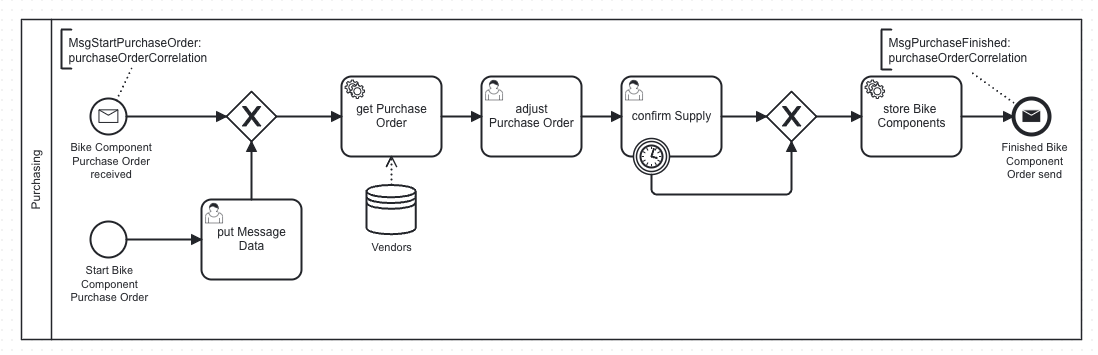
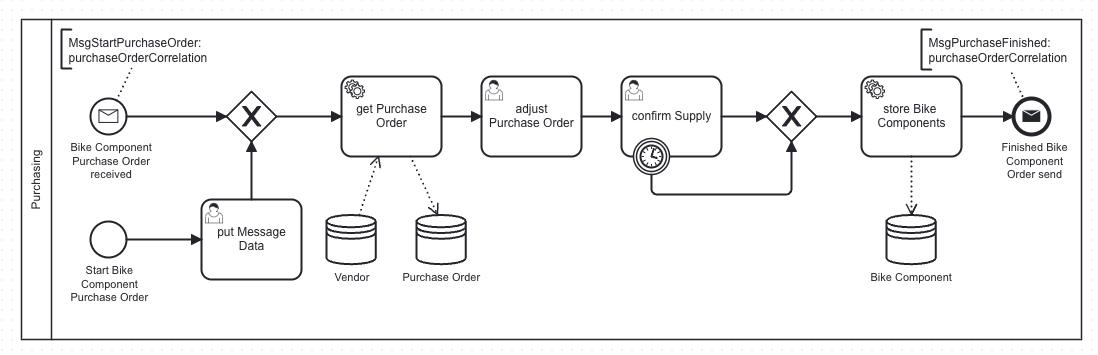
fixed Bike Instance reservation

diff --git a/bpa_lab_purchasing_process/src/index.ts b/bpa_lab_purchasing_process/src/index.ts
@@ -45,10 +45,10 @@ zbc.createWorker({
         log(`handling job of type ${job.type}`)
         const purchaseComponentDTO = job.variables;
         console.log(purchaseComponentDTO);
-        if (!purchaseComponentDTO.productionOrderNumber) {
-            // @ts-ignore
-            purchaseComponentDTO.productionOrderNumber = "no Order"
-        }
+        // if (!purchaseComponentDTO.productionOrderNumber) {
+        //     // @ts-ignore
+        //     purchaseComponentDTO.productionOrderNumber = "no Order"
+        // }
         const purchaseOrderNumber = await createPurchaseOrder(purchaseComponentDTO.productionOrderNumber
                                                         , purchaseComponentDTO.purchaseBikeComponent.amount
                                                         , purchaseComponentDTO.purchaseBikeComponent.title);
@@ -66,6 +66,8 @@ zbc.createWorker({
         const purchaseCount = purchaseComponentDTO.purchaseBikeComponent.amount
 
         return job.complete({
+            // @ts-ignore
+            vendorList, purchaseOrderNumber, purchaseComponentDTO
         })
     }
 })

diff --git a/bpa_lab_productioncontrol_process/src/main/java/de/thkoeln/inf/bpalab/demofactory/productioncontrol/worker/ProductionControlWorker.java b/bpa_lab_productioncontrol_process/src/main/java/de/thkoeln/inf/bpalab/demofactory/productioncontrol/worker/ProductionControlWorker.java
@@ -46,8 +46,8 @@ public class ProductionControlWorker {
 	@JobWorker(type = "createProductionOrder", fetchVariables={"orderNumber", "produceBikeModel"})
 	public ProductionOrderDTO createProductionOrder(final ActivatedJob job) throws JsonProcessingException {
 		ProductionOrderDTO productionOrderDTO = job.getVariablesAsType(ProductionOrderDTO.class);
-		if (productionOrderDTO.orderNumber == null)
-			productionOrderDTO.orderNumber = "no Order";
+//		if (productionOrderDTO.orderNumber == null)
+//			productionOrderDTO.orderNumber = "no Order";
 		LOG.info("saveProductionOrder {} ", objectMapper.writeValueAsString(productionOrderDTO));
 		productionOrderDTO = productionOrderService.createProductionOrder(productionOrderDTO.orderNumber, productionOrderDTO.produceBikeModel);
 		LOG.info("productionOrderSaved {} ", objectMapper.writeValueAsString(productionOrderDTO));
@@ -117,7 +117,9 @@ public class ProductionControlWorker {
 	public void reserveProductionBikeInstance(final ActivatedJob job) throws JsonProcessingException {
 		Map<String, Object> variables = job.getVariablesAsMap();
 		String bikeInstanceSerialNumber = variables.get("bikeInstanceSerialNumber").toString();
-		String orderNumber = variables.get("orderNumber").toString();
+		String orderNumber = null;
+		if (variables.get("orderNumber") != null)
+			orderNumber = variables.get("orderNumber").toString();
 		bikeInstanceService.reserveBikeInstance(bikeInstanceSerialNumber, orderNumber);
 	}
 

diff --git a/bpa_lab_process_common/src/main/java/de/thkoeln/inf/bpalab/demofactory/common/service/BikeInstanceService.java b/bpa_lab_process_common/src/main/java/de/thkoeln/inf/bpalab/demofactory/common/service/BikeInstanceService.java
@@ -47,8 +47,10 @@ public class BikeInstanceService {
         UUID bikeInstanceUUID = UUID.fromString(bikeInstanceSerialNumber);
         BikeInstance bikeInstance = bikeInstanceRepository.getReferenceById(bikeInstanceUUID);
         if (bikeInstance != null) {
-            bikeInstance.setCustomerOrder(orderNumber);
-            bikeInstanceRepository.save(bikeInstance);
+            if (orderNumber != null) {
+                bikeInstance.setCustomerOrder(orderNumber);
+                bikeInstanceRepository.save(bikeInstance);
+            }
         } else
             throw new NoSuchElementException();
     }